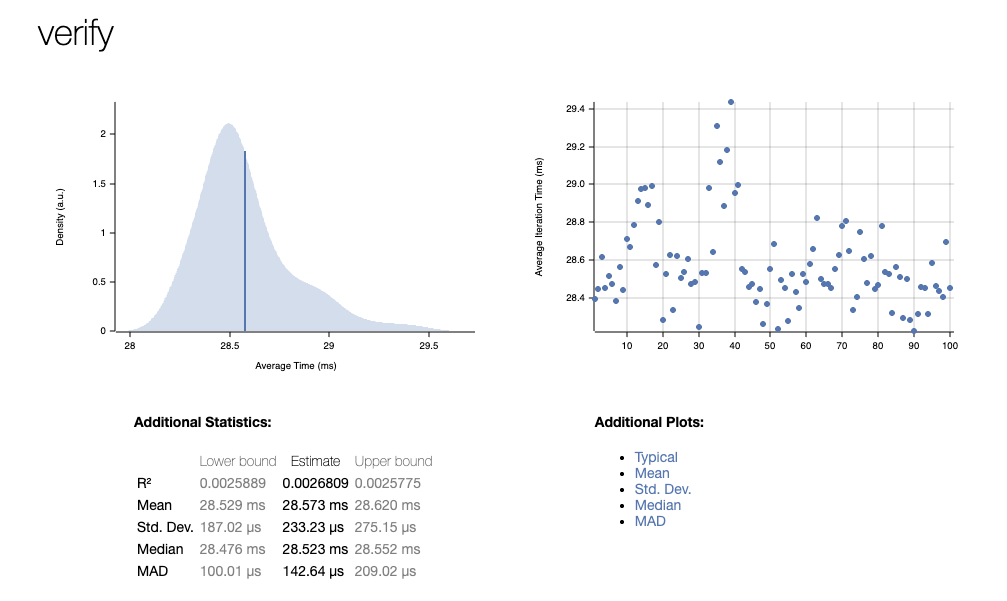
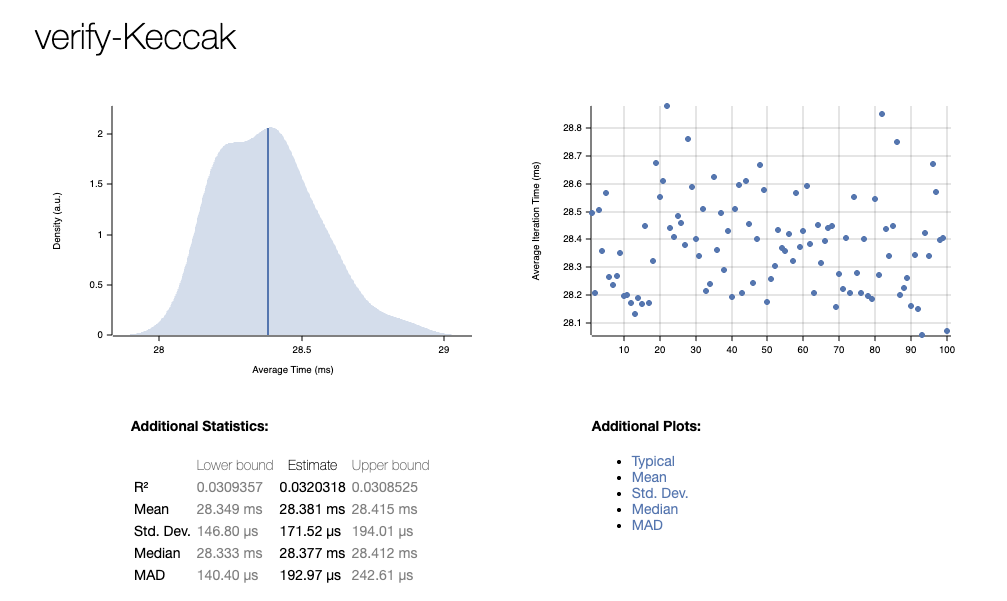
feat: updated with new benchmark

diff --git a/provekit/common/src/hash/keccak/pow.rs b/provekit/common/src/hash/keccak/pow.rs
@@ -24,8 +24,8 @@ impl PowStrategy for KeccakPoW {
     fn check(&mut self, nonce: u64) -> bool {
         // Hash challenge || nonce
         let mut hasher = Keccak256::new();
-        hasher.update(&self.challenge);
-        hasher.update(&nonce.to_le_bytes());
+        hasher.update(self.challenge);
+        hasher.update(nonce.to_le_bytes());
         let hash = hasher.finalize();
         check_pow_bits(&hash, self.bits)
     }
@@ -42,8 +42,8 @@ impl PowStrategy for KeccakPoW {
                 }
                 // Check if this nonce is a solution
                 let mut hasher = Keccak256::new();
-                hasher.update(&challenge);
-                hasher.update(&nonce.to_le_bytes());
+                hasher.update(challenge);
+                hasher.update(nonce.to_le_bytes());
                 let hash = hasher.finalize();
                 // Count leading zero bits
                 let threshold_bits = bits as u32;

diff --git a/provekit/common/src/hash/sha2/pow.rs b/provekit/common/src/hash/sha2/pow.rs
@@ -21,8 +21,8 @@ impl PowStrategy for Sha2PoW {
     fn check(&mut self, nonce: u64) -> bool {
         // Hash challenge || nonce
         let mut hasher = Sha256::new();
-        hasher.update(&self.challenge);
-        hasher.update(&nonce.to_le_bytes());
+        hasher.update(self.challenge);
+        hasher.update(nonce.to_le_bytes());
         let hash = hasher.finalize();
         check_pow_bits(&hash, self.bits)
     }
@@ -39,8 +39,8 @@ impl PowStrategy for Sha2PoW {
                 }
                 // Check if this nonce is a solution
                 let mut hasher = Sha256::new();
-                hasher.update(&challenge);
-                hasher.update(&nonce.to_le_bytes());
+                hasher.update(challenge);
+                hasher.update(nonce.to_le_bytes());
                 let hash = hasher.finalize();
                 // Count leading zero bits
                 let threshold_bits = bits as u32;

diff --git a/provekit/common/src/hash/mod.rs b/provekit/common/src/hash/mod.rs
@@ -285,7 +285,7 @@ impl MerkleConfig {
 #[derive(Clone)]
 pub enum PoW {
     Skyscraper(crate::hash::skyscraper::SkyscraperPoW),
-    Blake3(crate::hash::blake3::Blake3PoW),
+    Blake3(Box<crate::hash::blake3::Blake3PoW>),
     Keccak(crate::hash::keccak::KeccakPoW),
     Sha2(crate::hash::sha2::Sha2PoW),
 }
@@ -294,7 +294,7 @@ impl PowStrategy for PoW {
     fn new(challenge: [u8; 32], bits: f64) -> Self {
         match get_hash_function() {
             HashFunction::Skyscraper => Self::Skyscraper(SkyscraperPoW::new(challenge, bits)),
-            HashFunction::Blake3 => Self::Blake3(Blake3PoW::new(challenge, bits)),
+            HashFunction::Blake3 => Self::Blake3(Box::new(Blake3PoW::new(challenge, bits))),
             HashFunction::Keccak => Self::Keccak(KeccakPoW::new(challenge, bits)),
             HashFunction::Sha2 => Self::Sha2(Sha2PoW::new(challenge, bits)),
         }

diff --git a/provekit/common/src/hash/keccak/sponge.rs b/provekit/common/src/hash/keccak/sponge.rs
@@ -46,14 +46,14 @@ impl Permutation for Keccak {
         state_bytes[32..64].copy_from_slice(&field_to_bytes(self.state[1]));
         // Hash with Keccak-256 to get 32 bytes
         let mut hasher = Keccak256::new();
-        hasher.update(&state_bytes);
+        hasher.update(state_bytes);
         let hash_bytes = hasher.finalize();
         // Use the first 32 bytes for the first element
         let first_bytes: [u8; 32] = hash_bytes.into();
         let first = bytes_to_field(first_bytes);
         // Hash again with the first element to get the second element
         let mut hasher2 = Keccak256::new();
-        hasher2.update(&first_bytes);
+        hasher2.update(first_bytes);
         let hash_bytes2 = hasher2.finalize();
         let second_bytes: [u8; 32] = hash_bytes2.into();
         let second = bytes_to_field(second_bytes);

diff --git a/provekit/common/src/hash/sha2/sponge.rs b/provekit/common/src/hash/sha2/sponge.rs
@@ -47,14 +47,14 @@ impl Permutation for Sha2 {
 
         // Hash with SHA2 to get 32 bytes
         let mut hasher = Sha256::new();
-        hasher.update(&state_bytes);
+        hasher.update(state_bytes);
         let hash_bytes = hasher.finalize();
         // Use the first 32 bytes for the first element, and hash again for the second
         let first_bytes: [u8; 32] = hash_bytes.into();
         let first = bytes_to_field(first_bytes);
         // Hash again with the first element to get the second element
         let mut hasher2 = Sha256::new();
-        hasher2.update(&first_bytes);
+        hasher2.update(first_bytes);
         let hash_bytes2 = hasher2.finalize();
         let second_bytes: [u8; 32] = hash_bytes2.into();
         let second = bytes_to_field(second_bytes);

diff --git a/provekit/common/src/hash/keccak/whir.rs b/provekit/common/src/hash/keccak/whir.rs
@@ -27,8 +27,8 @@ fn compress(l: FieldElement, r: FieldElement) -> FieldElement {
     let l_bytes = field_to_bytes(l);
     let r_bytes = field_to_bytes(r);
     let mut hasher = Keccak256::new();
-    hasher.update(&l_bytes);
-    hasher.update(&r_bytes);
+    hasher.update(l_bytes);
+    hasher.update(r_bytes);
     let hash_bytes = hasher.finalize();
     let hash_array: [u8; 32] = hash_bytes.into();
     bytes_to_field(hash_array)

diff --git a/provekit/common/src/hash/sha2/whir.rs b/provekit/common/src/hash/sha2/whir.rs
@@ -27,8 +27,8 @@ fn compress(l: FieldElement, r: FieldElement) -> FieldElement {
     let l_bytes = field_to_bytes(l);
     let r_bytes = field_to_bytes(r);
     let mut hasher = Sha256::new();
-    hasher.update(&l_bytes);
-    hasher.update(&r_bytes);
+    hasher.update(l_bytes);
+    hasher.update(r_bytes);
     let hash_bytes = hasher.finalize();
     let hash_array: [u8; 32] = hash_bytes.into();
     bytes_to_field(hash_array)

diff --git a/provekit/common/src/hash/utils.rs b/provekit/common/src/hash/utils.rs
@@ -36,8 +36,8 @@ pub fn check_pow_bits(hash: &[u8], bits: f64) -> bool {
     let threshold_bytes = (threshold_bits / 8) as usize;
     let threshold_bits_remainder = (threshold_bits % 8) as u8;
     // Check full bytes
-    for i in 0..threshold_bytes {
-        if hash[i] != 0 {
+    for byte in hash.iter().take(threshold_bytes) {
+        if *byte != 0 {
             return false;
         }
     }

diff --git a/tooling/cli/src/cmd/verify.rs b/tooling/cli/src/cmd/verify.rs
@@ -2,11 +2,7 @@ use {
     super::Command,
     anyhow::{Context, Result},
     argh::FromArgs,
-    provekit_common::{
-        file::read,
-        hash::{set_hash_function, HashFunction},
-        NoirProof, Verifier,
-    },
+    provekit_common::{file::read, hash::set_hash_function, NoirProof, Verifier},
     provekit_verifier::Verify,
     std::path::PathBuf,
     tracing::instrument,

diff --git a/benchmarks/benchmark.md b/benchmarks/benchmark.md
@@ -49,7 +49,7 @@ Example output:
 
 | Hash Function | Proving Time (Mean) | Verification Time (Mean) | Prover Chart                          | Verifier Chart                         |
 | ------------- | ------------------- | ------------------------ | ------------------------------------- | -------------------------------------- |
-| Skyscraper    | 5.869s              | 33.804ms                 | ![Skyscraper](./skyscraper/prove.png) | ![Skyscraper](./skyscraper/verify.png) |
-| SHA2          | 5.420s              | 30.790ms                 | ![SHA2](./sha2/prove.png)             | ![SHA2](./sha2/verify.png)             |
-| Blake3        | 4.430s              | 26.615ms                 | ![Blake3](./blake3/prove.png)         | ![Blake3](./blake3/verify.png)         |
-| Keccak        | 4.924s              | 28.573ms                 | ![Keccak](./keccak/prove.png)         | ![Keccak](./keccak/verify.png)         |
+| Skyscraper    | 6.4895s              | 35.010ms                 | ![Skyscraper](./skyscraper/prove.png) | ![Skyscraper](./skyscraper/verify.png) |
+| SHA2          | 6.1671s              | 30.387ms                 | ![SHA2](./sha2/prove.png)             | ![SHA2](./sha2/verify.png)             |
+| Blake3        | 5.3849s              | 27.194ms                 | ![Blake3](./blake3/prove.png)         | ![Blake3](./blake3/verify.png)         |
+| Keccak        | 6.8657s              | 28.381ms                 | ![Keccak](./keccak/prove.png)         | ![Keccak](./keccak/verify.png)         |
